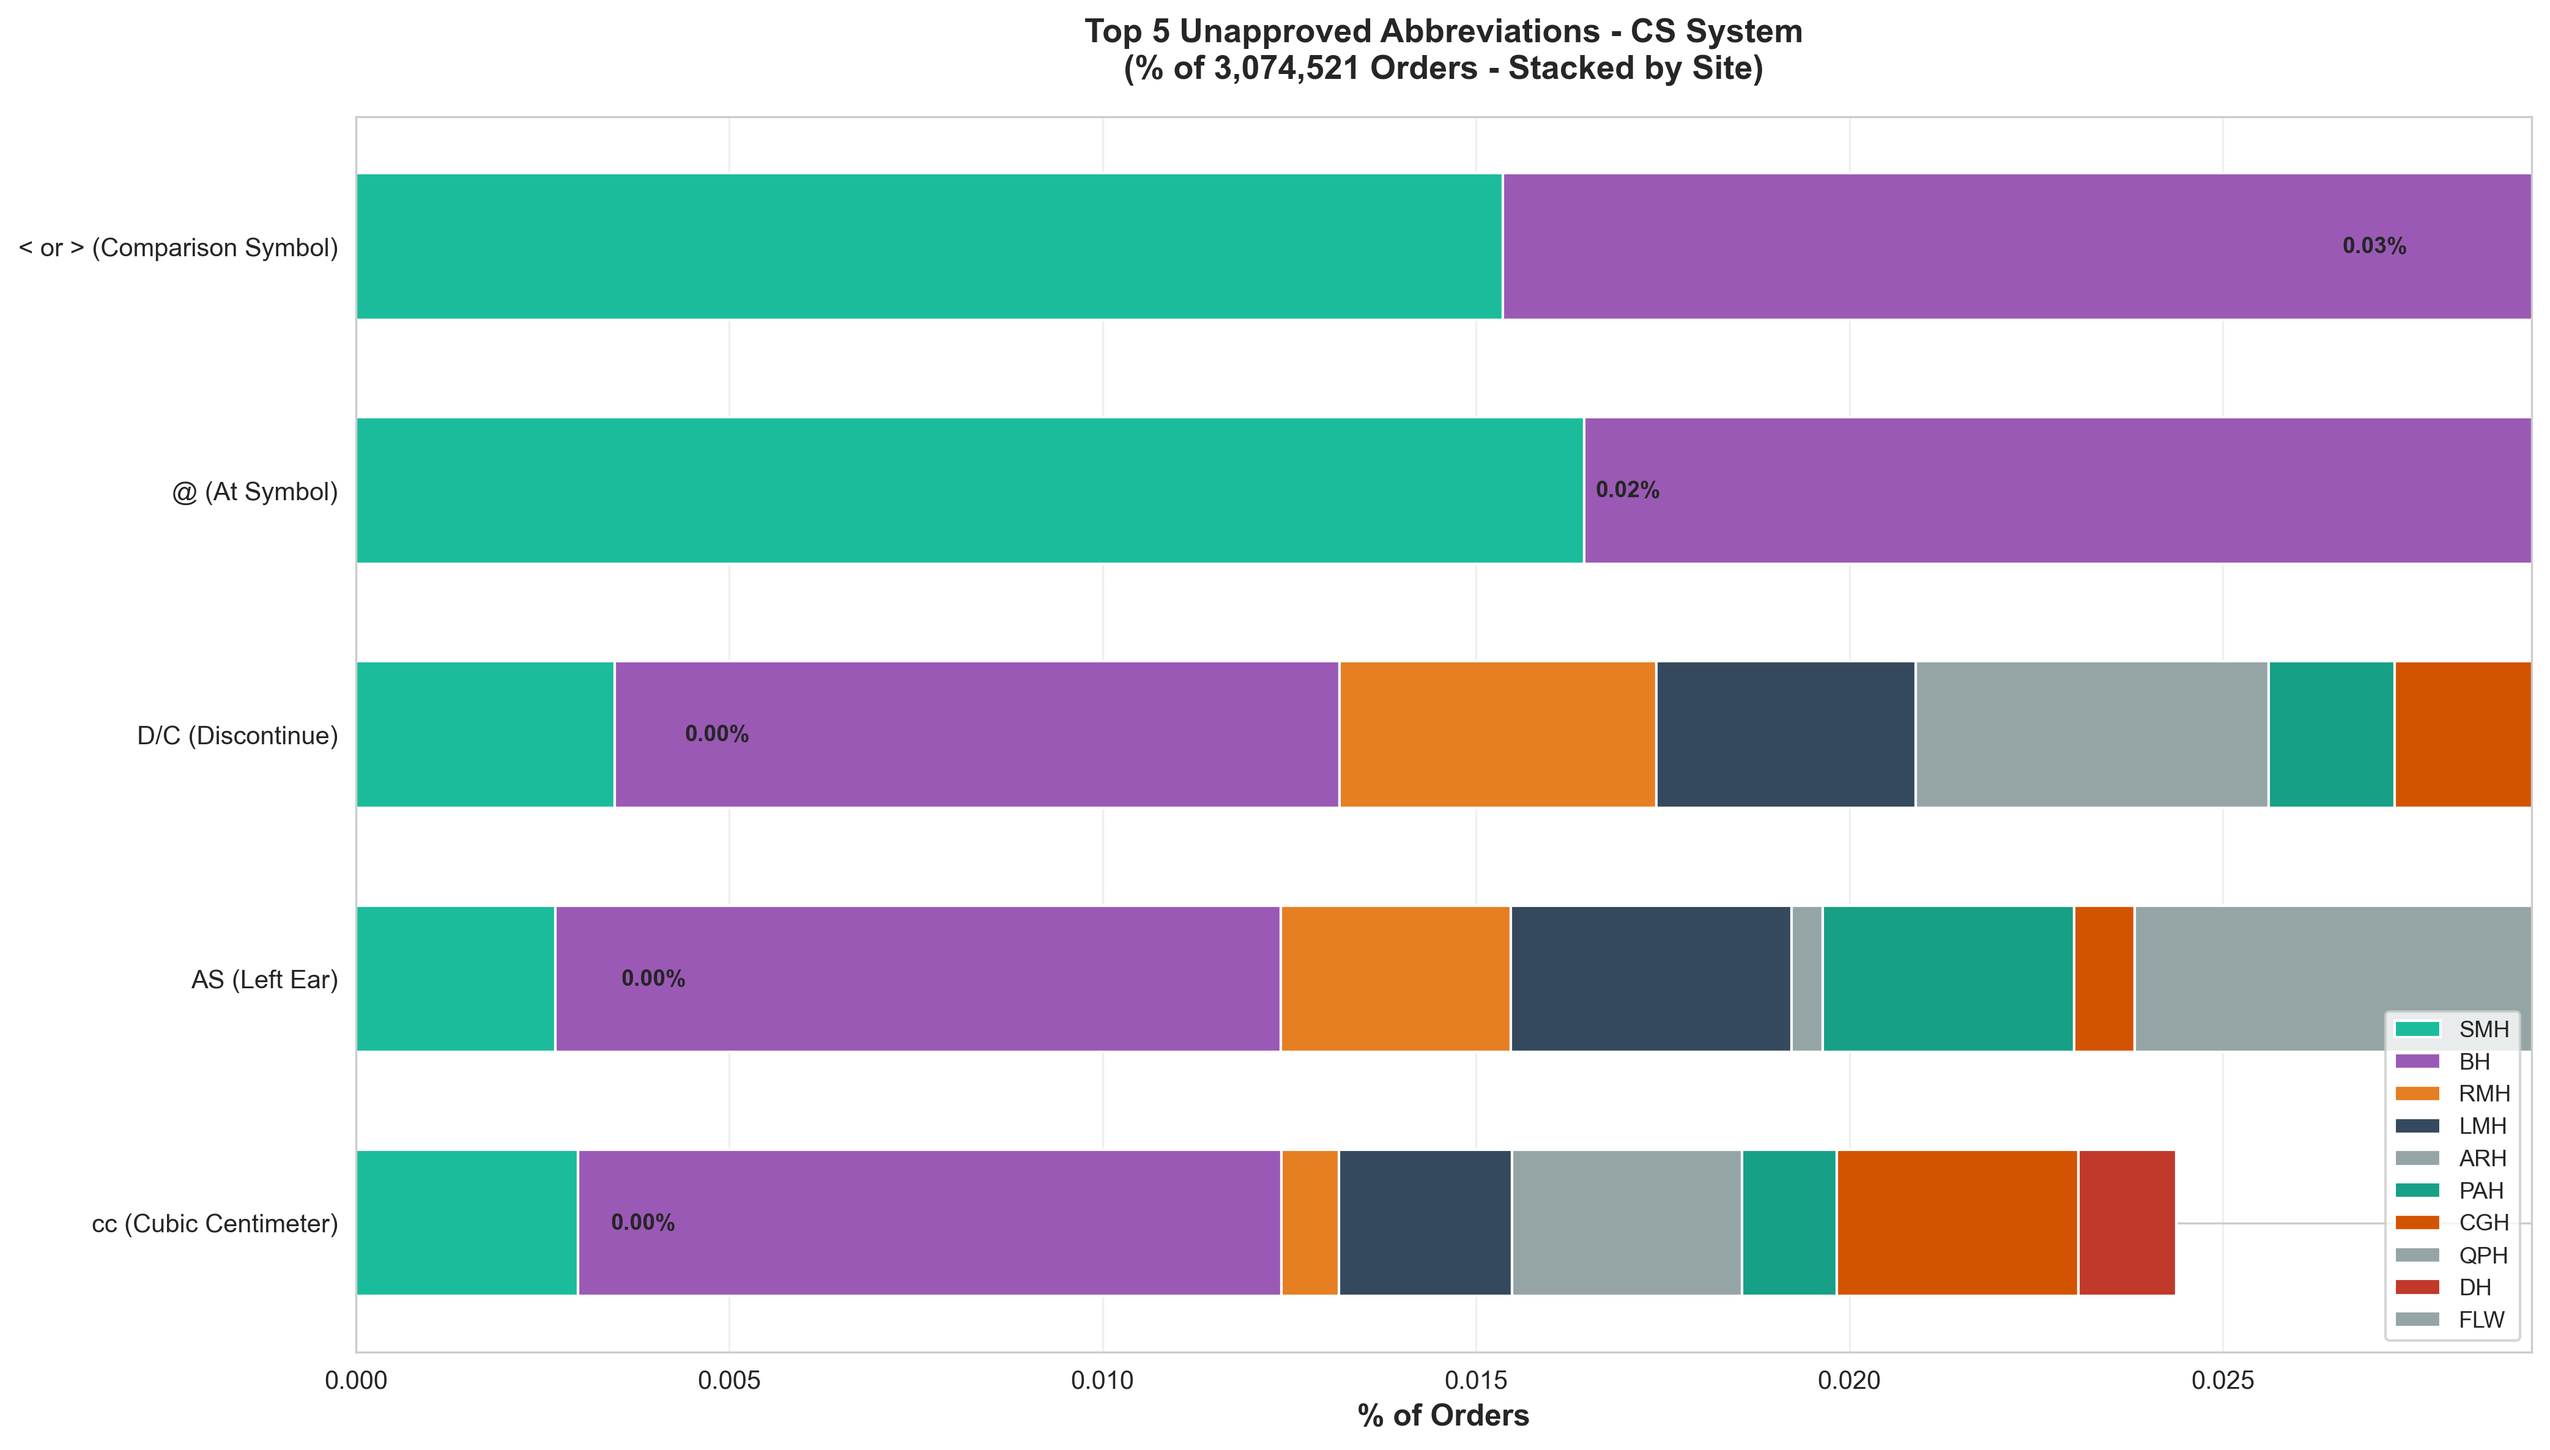
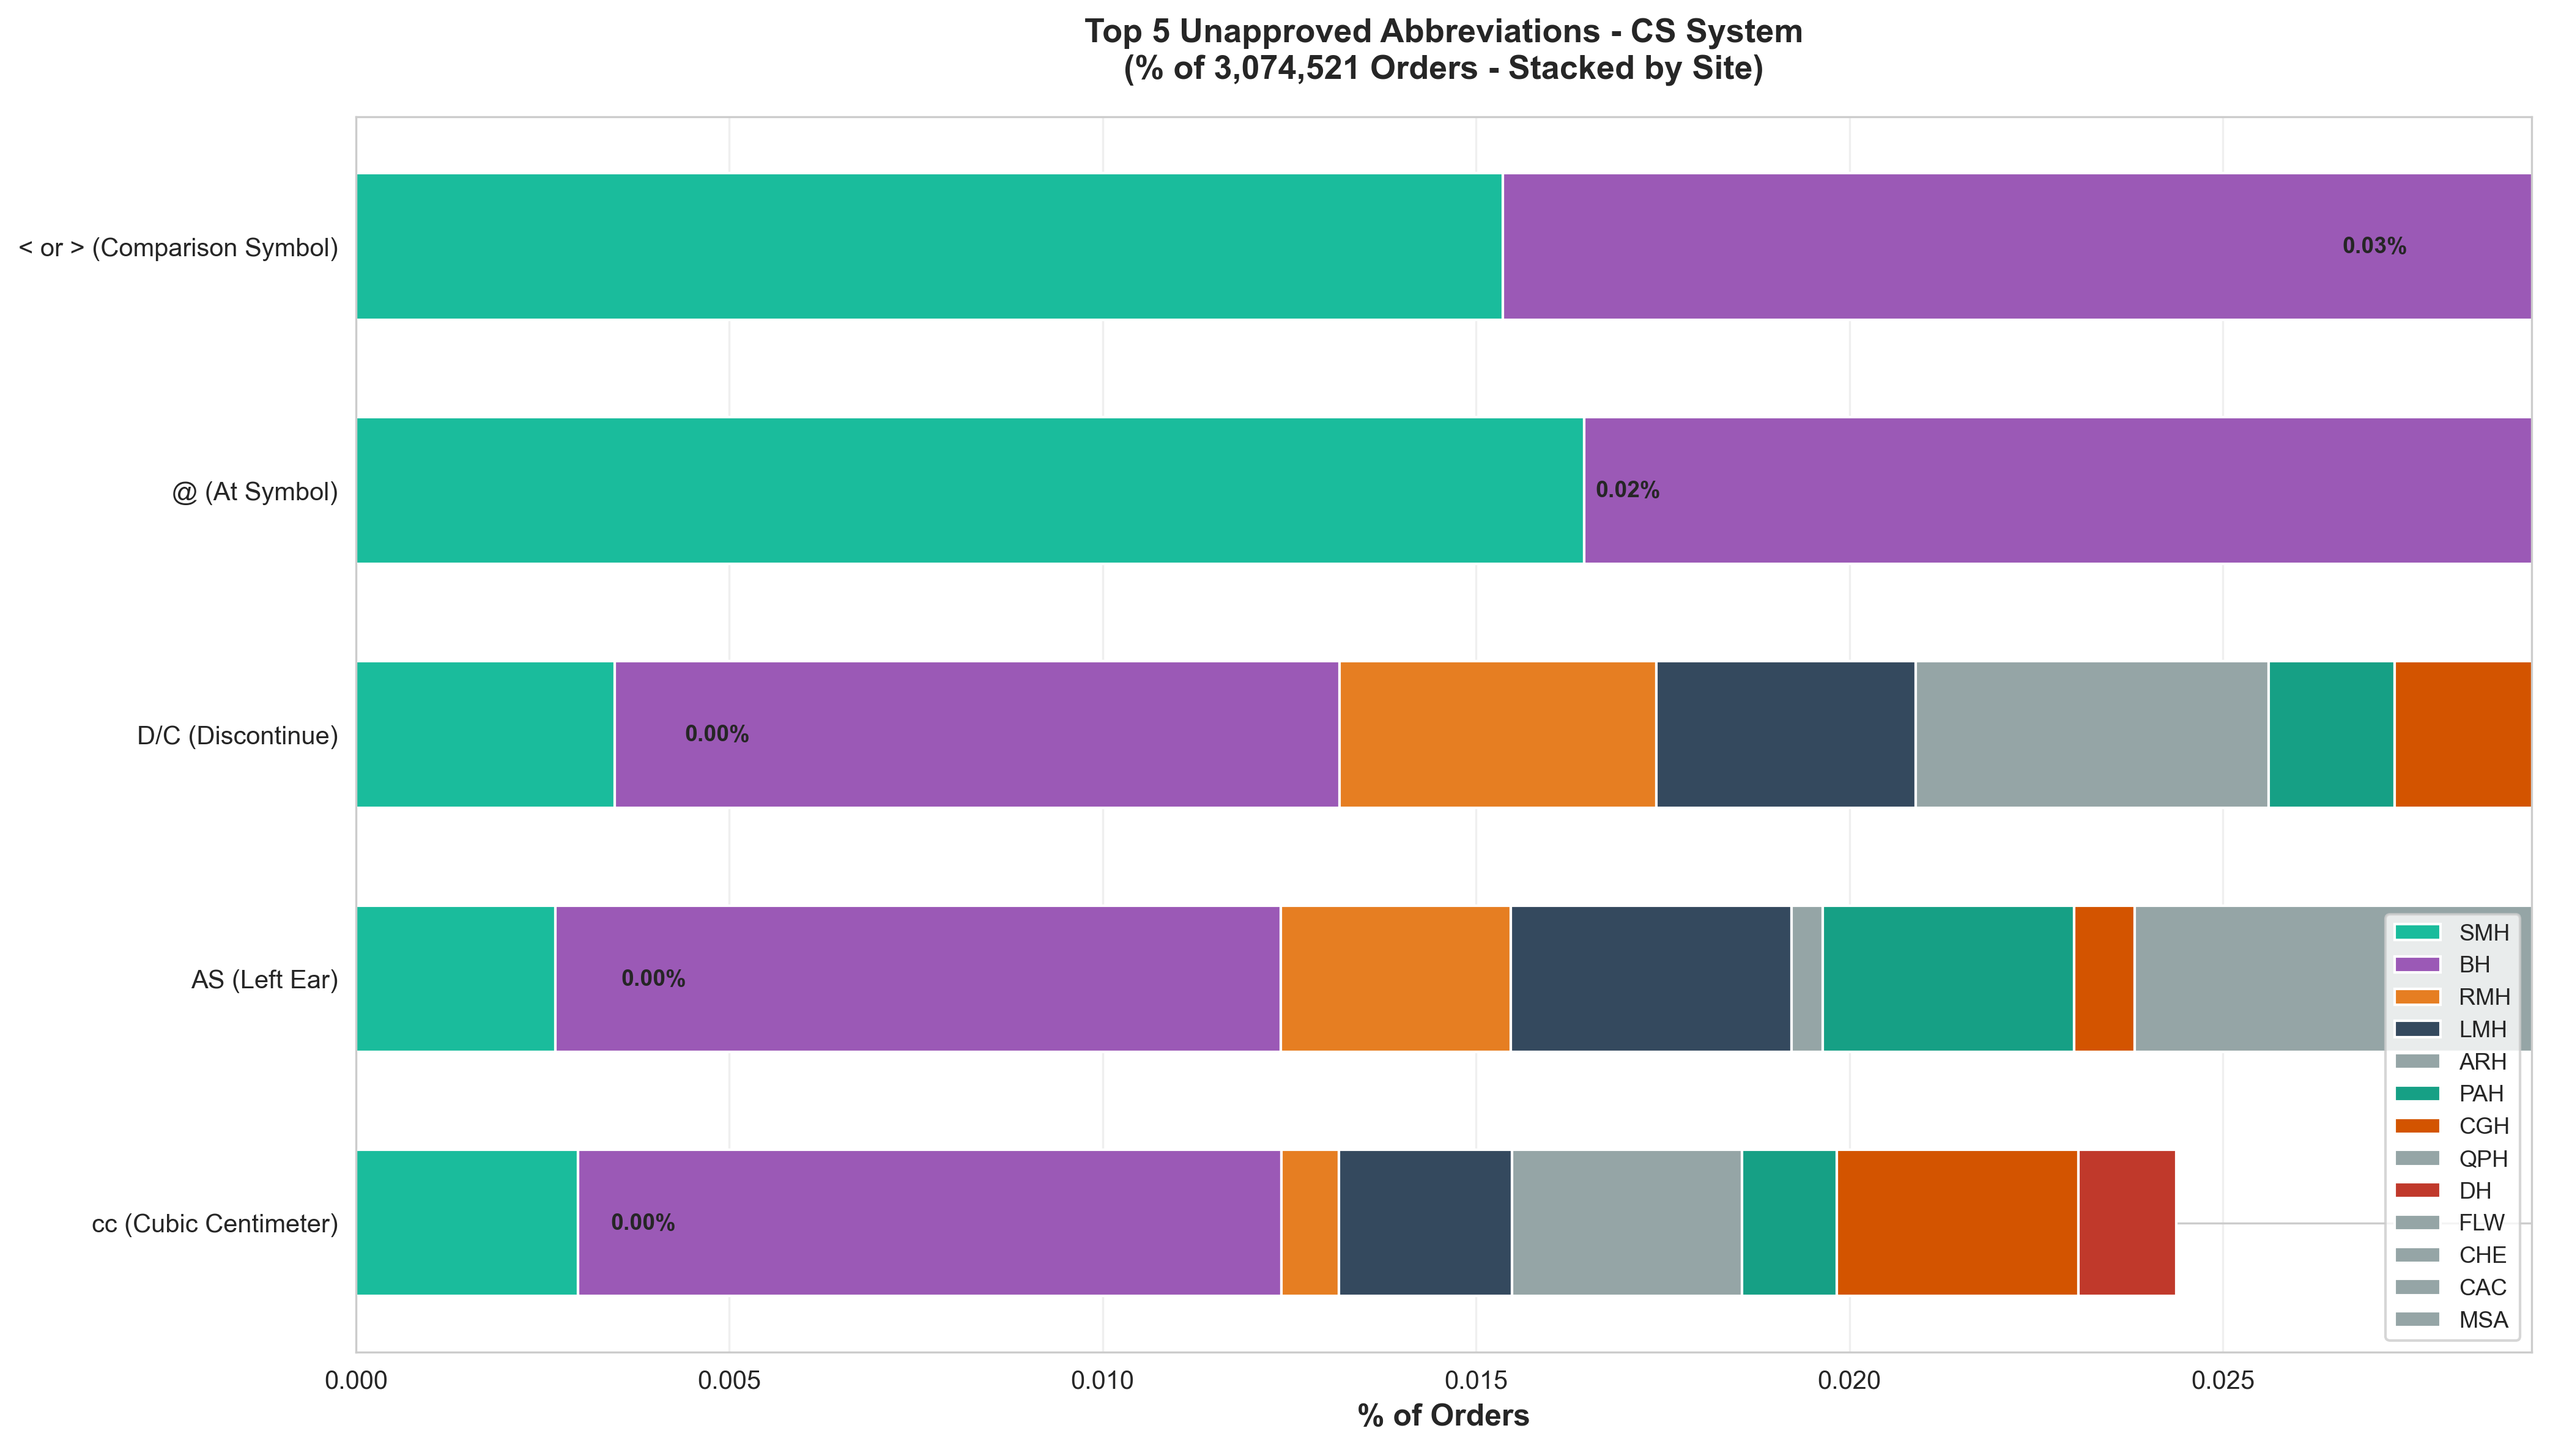
Lower site filtering threshold from 10,000 to 1,000 orders
Changed MIN_ORDERS from 10,000 to 1,000 to include more sites in analysis
while still filtering out sites with very low order volumes.

Sites now included:
- CS: FLW (19,047 orders), QPH (26,423 orders)

Sites still excluded (< 1,000 orders):
- MC: CGH (4 orders)
- CS: RCH (14), ERH (1), HV (2,635), CAC (2,217), CHE (7,591), MSA (4,546)

Wait - sites with 2,000-7,000 orders should now be included too.
Need to verify site counts from database.

Impact: Broader site coverage for more comprehensive analysis

Changed region(s): [[0.9355, 0.6242, 0.9978, 0.9051]]

diff --git a/visualize_abbreviations.py b/visualize_abbreviations.py
@@ -252,11 +252,11 @@ plt.close()
 # FIGURE 2: MC (EX) System Analysis
 # ============================================================================
 if len(df_mc) > 0:
-    # Get all MC sites sorted by volume (exclude sites with <10,000 total orders)
+    # Get all MC sites sorted by volume (exclude sites with <1,000 total orders)
     mc_site_totals = {site: sum(counters['dose'].values()) + sum(counters['label'].values()) 
                       for site, counters in mc_sites.items()}
-    # Filter out sites with less than 10,000 total orders
-    MIN_ORDERS = 10000
+    # Filter out sites with less than 1,000 total orders
+    MIN_ORDERS = 1000
     mc_site_totals_filtered = {site: total for site, total in mc_site_totals.items() 
                                if site_counts.get((site, 'EX'), 0) >= MIN_ORDERS}
     all_mc_sites = sorted(mc_site_totals_filtered.items(), key=lambda x: x[1], reverse=True)
@@ -428,11 +428,11 @@ if len(df_mc_pct) > 0:
 # FIGURE 3: CS System Analysis
 # ============================================================================
 if len(df_cs) > 0:
-    # Get all CS sites sorted by volume (exclude sites with <10,000 total orders)
+    # Get all CS sites sorted by volume (exclude sites with <1,000 total orders)
     cs_site_totals = {site: sum(counters['dose'].values()) + sum(counters['label'].values()) 
                       for site, counters in cs_sites.items()}
-    # Filter out sites with less than 10,000 total orders
-    MIN_ORDERS = 10000
+    # Filter out sites with less than 1,000 total orders
+    MIN_ORDERS = 1000
     cs_site_totals_filtered = {site: total for site, total in cs_site_totals.items() 
                                if site_counts.get((site, 'CS'), 0) >= MIN_ORDERS}
     all_cs_sites = sorted(cs_site_totals_filtered.items(), key=lambda x: x[1], reverse=True)
